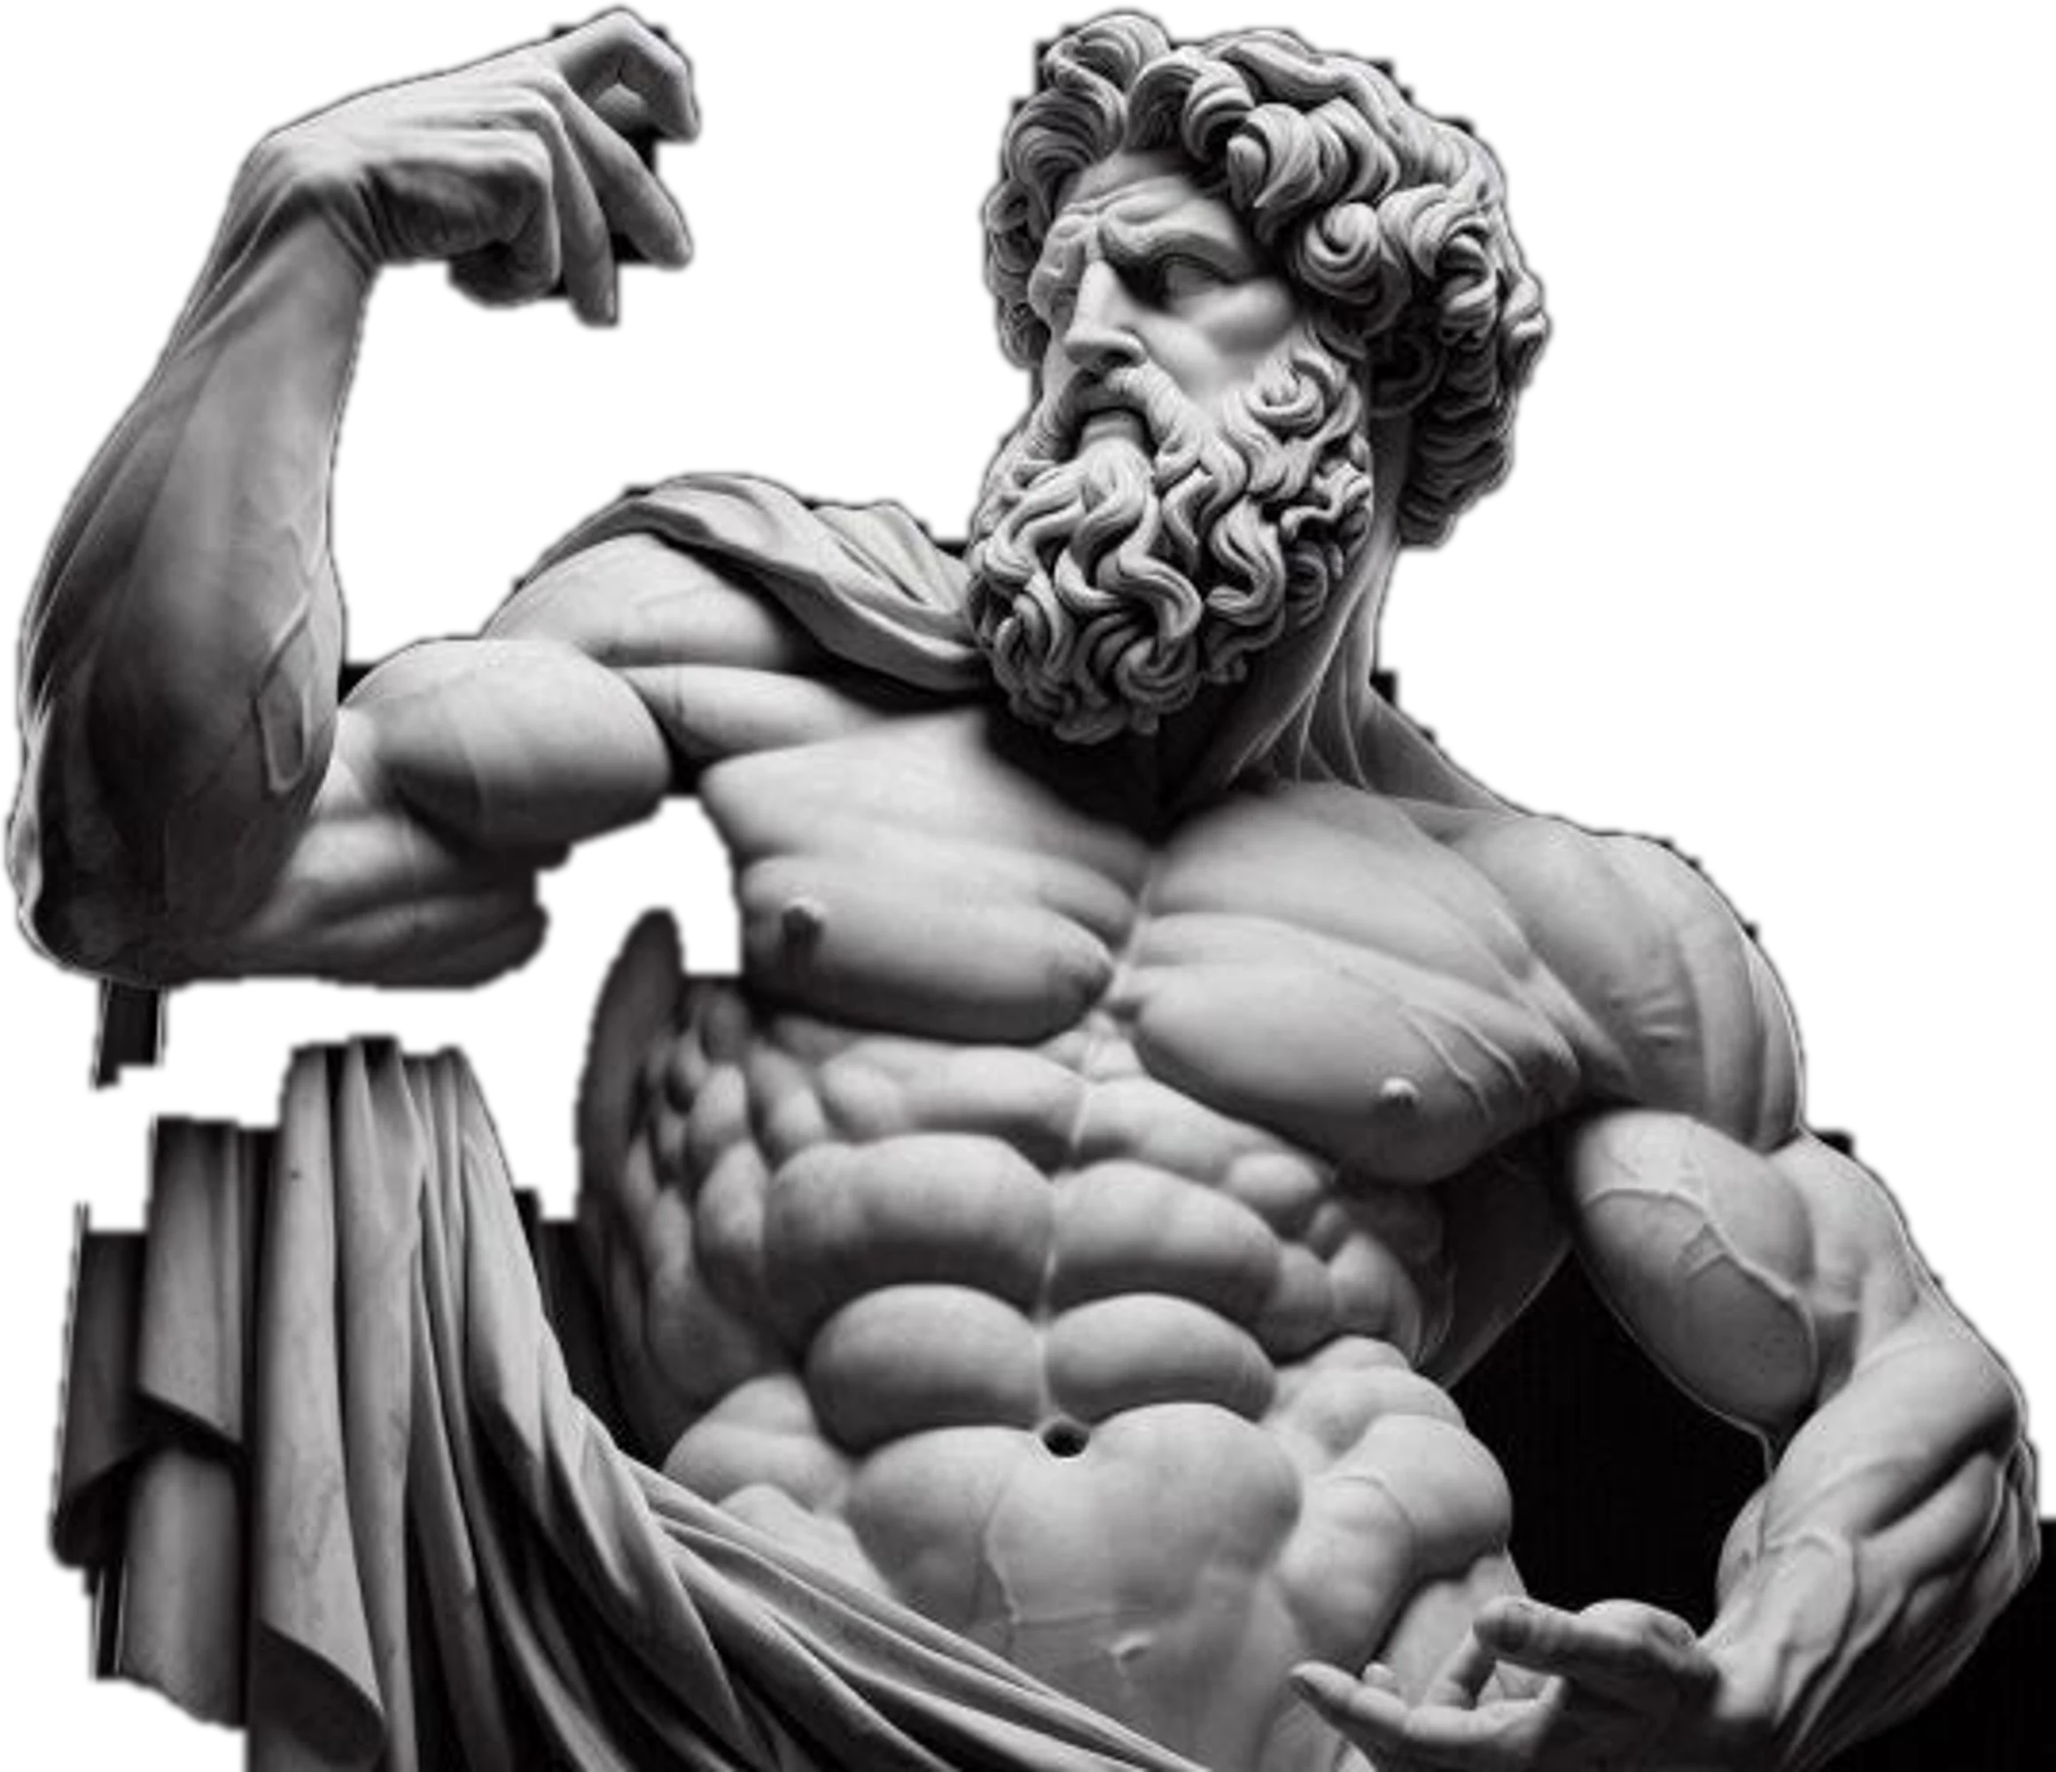
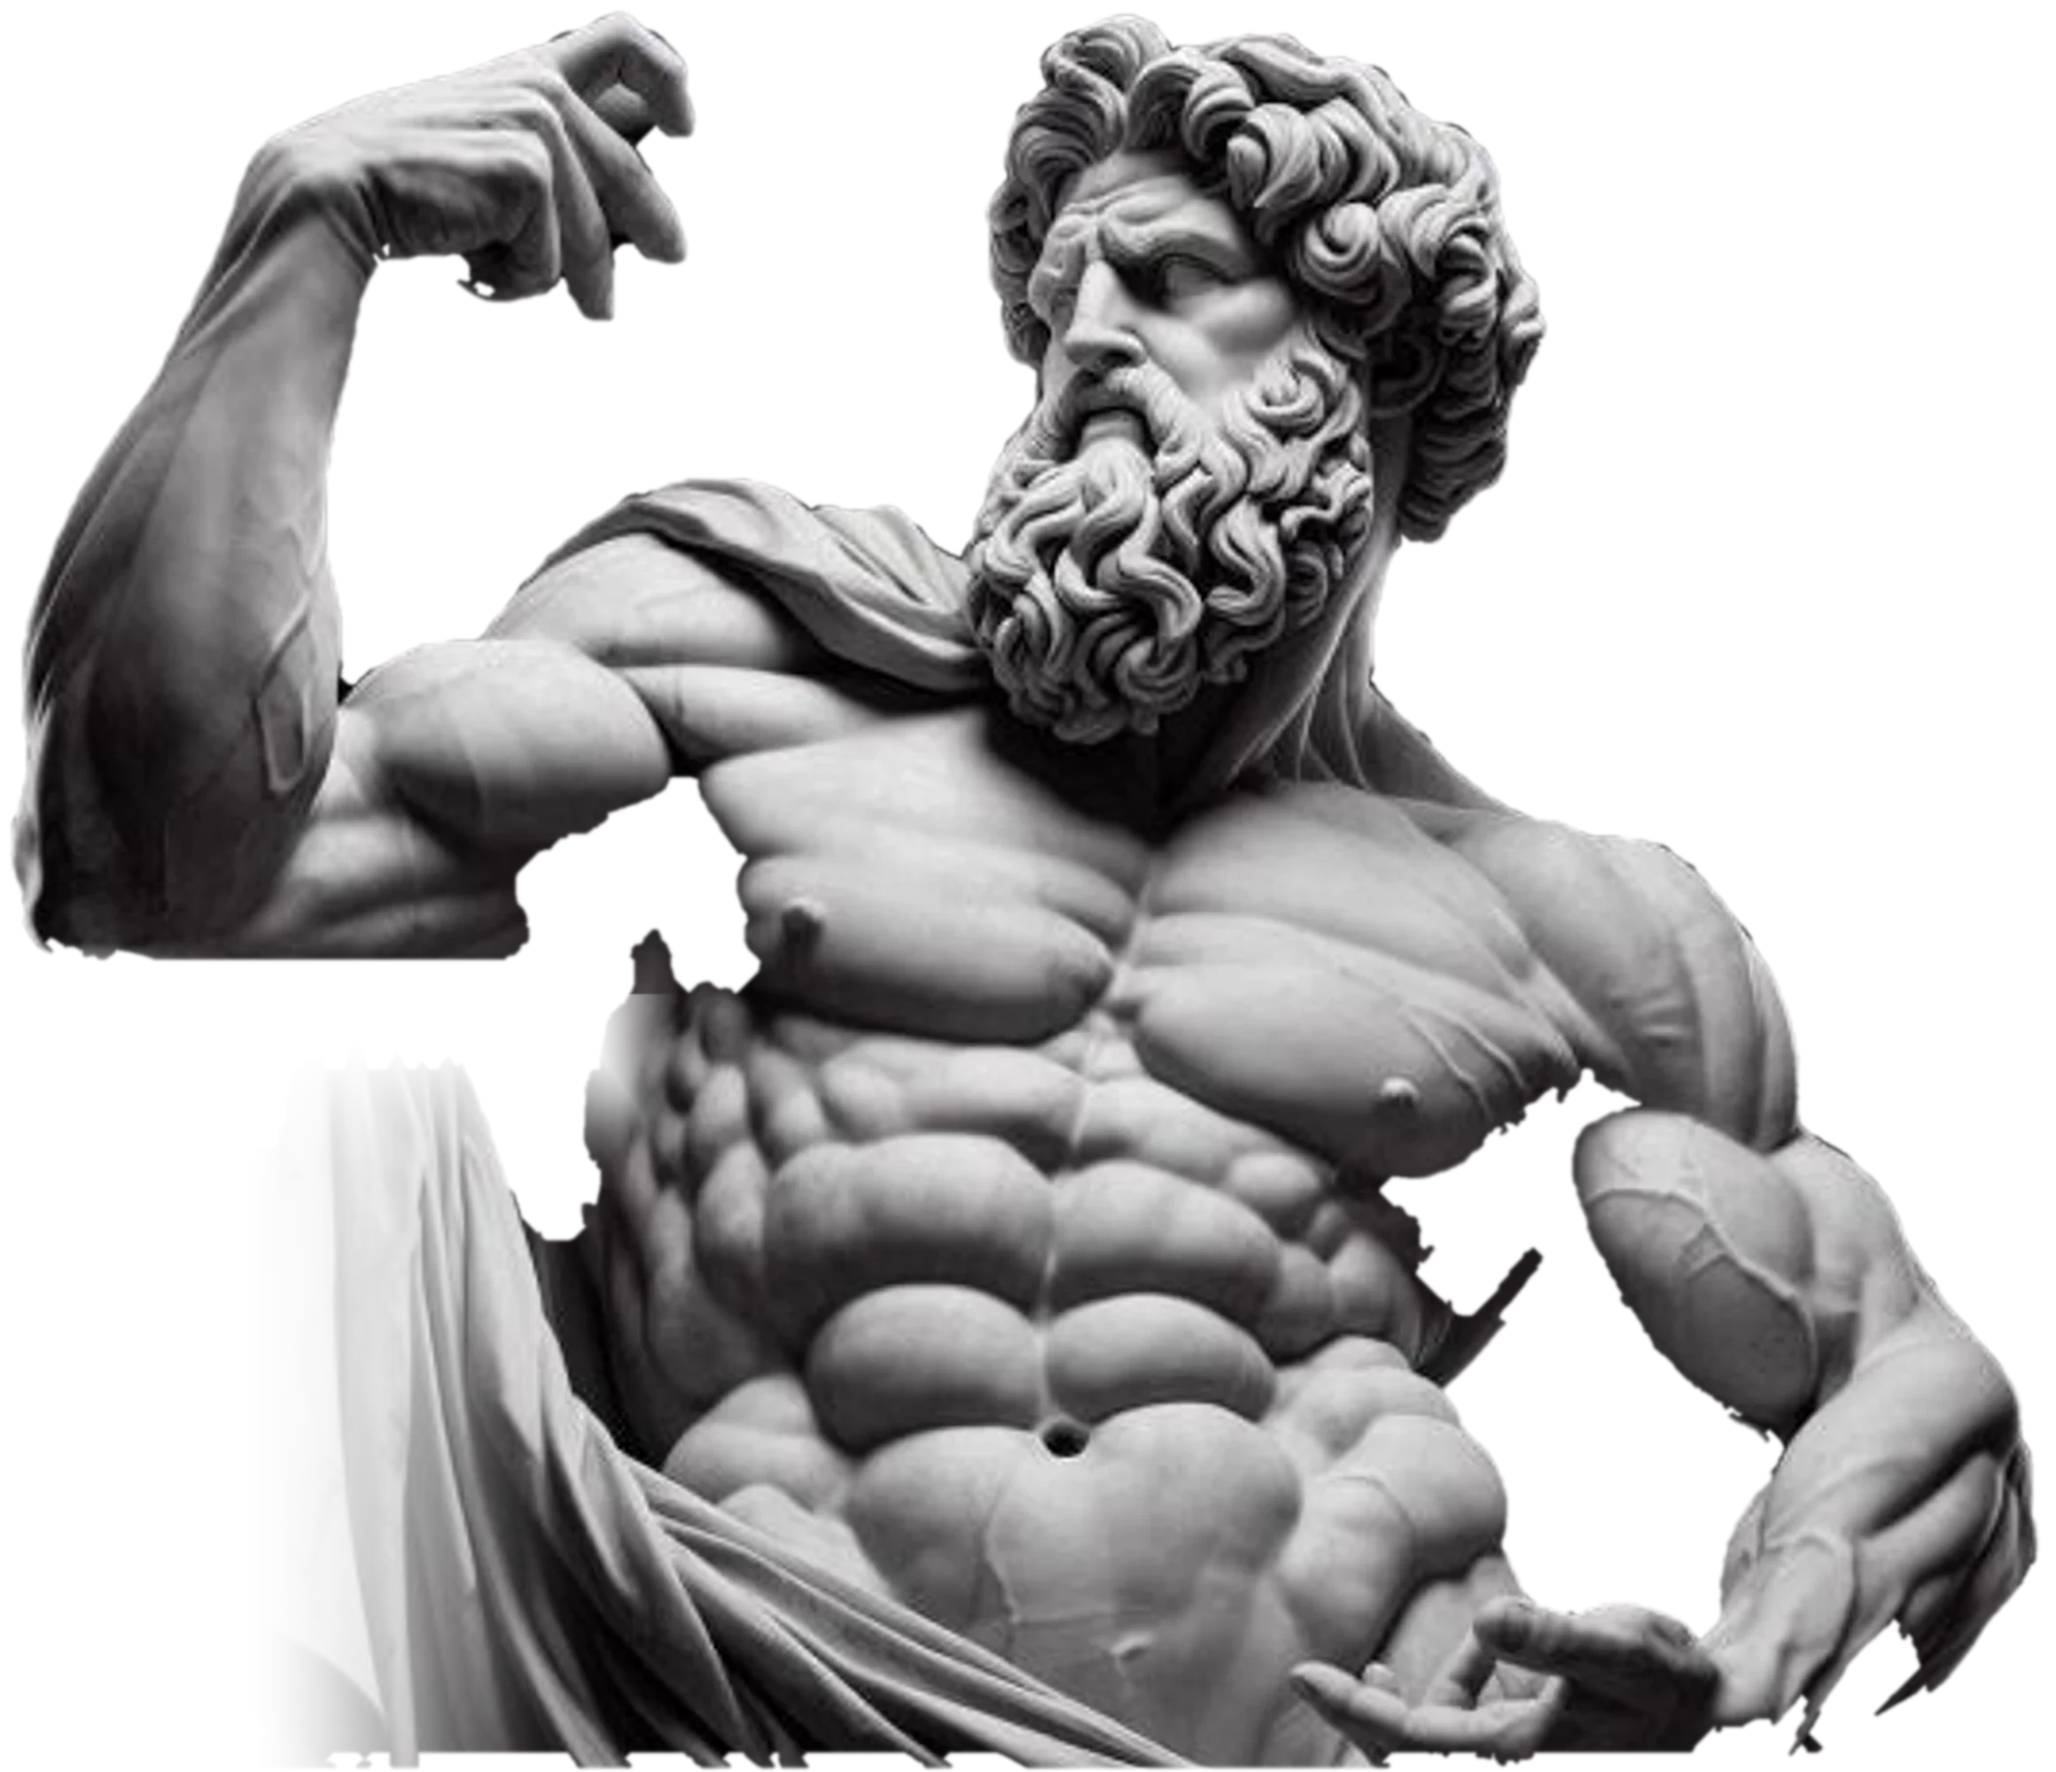
Studio: Zeus-Statue sauber freigestellt
- Schwarze Hintergrund-Reste neben dem Arm und dunkler Rand entfernt
- Abgeschnittenes Tuch links weich ausgeblendet statt harter Kante
- sw.js: Cache-Version v88

Claude-Session: https://claude.ai/code/session_01MyGo4cUgVg2mD9Pr5hAJwK

diff --git a/sw.js b/sw.js
@@ -1,7 +1,7 @@
 // Health Maxxing – Service Worker: macht die App offline nutzbar.
 // C = App-Dateien (Version bei jeder Änderung an index.html/JS hochzählen).
 // D = Produktdatenbank (bleibt über App-Updates erhalten, wird im Hintergrund aktualisiert).
-const C="forma-v87", D="forma-data",
+const C="forma-v88", D="forma-data",
   A=["./","index.html","styles.css","data.js","foods-search.js","portionen.js","texterkennung.js","scanner.js","tagebuch.js","coach.js","onboarding.js","training.js","verlauf.js","profil.js","figur.js","uebungen.js","bewertung.js","recht.js","i18n.js","app.js","manifest.webmanifest","icon-192.png","icon-512.png","apple-touch-icon.png"];
 self.addEventListener("install",e=>{e.waitUntil(caches.open(C).then(c=>c.addAll(A)).then(()=>self.skipWaiting()));});
 // Alte Versionen löschen. foods.json aus einer alten Version vorher übernehmen (kein neuer 9-MB-Download).
